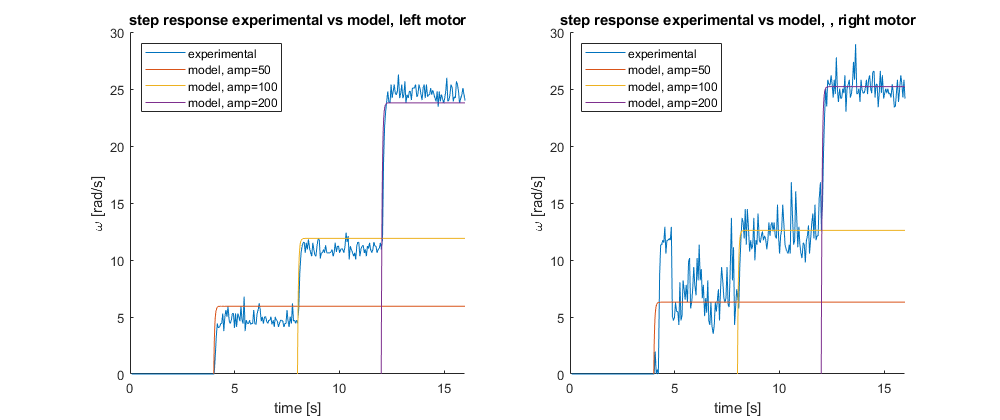
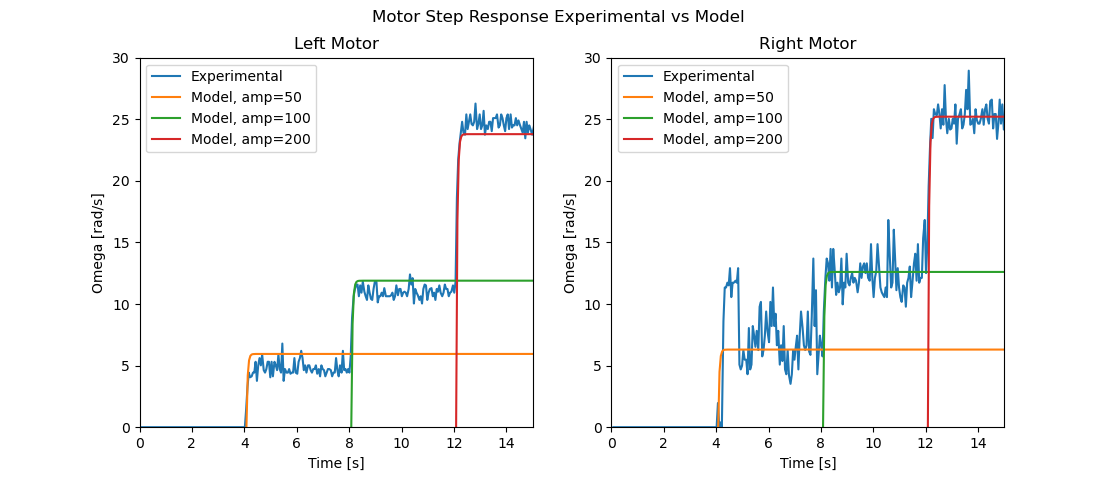
figure updates

diff --git a/HIVE/backtrack.py b/HIVE/backtrack.py
@@ -1,0 +1,196 @@
+import pyrealsense2.pyrealsense2 as rs
+import numpy as np
+import cv2
+import argparse
+import imutils
+import time
+import math
+from math import isnan
+import sys
+
+# add directories and import custom "libraries"
+sys.path.append('D:/all my files/documents/uvm/5_masters/hive/github_directory/HIVE/vision/')
+import vision_continuous as vision
+
+sys.path.append('D:/all my files/documents/uvm/5_masters/hive/github_directory/HIVE/motion/python/send_serial_motor_control/')
+import send_actuation_msg as messenger
+#
+sys.path.append('D:/all my files/documents/uvm/5_masters/hive/github_directory/HIVE/mapping/')
+from mapping import px2rad
+
+
+####################################################
+#               vehicle parameters                 #
+####################################################
+# vehicle measurements
+wheel_base_m = 0.158    # [m]
+tire_radius_m = 0.022   # [m]
+
+# set camera specs
+wp = 640
+theta_fov_depth = math.radians(81)
+cam_loc = [-25,105] # sideways,forward displacement of camera (right +,fwd +)
+
+print('*************************************')
+print('Vehicle and Controller Specifications')
+print('*************************************')
+print('')
+print('wheel base [m]:    ' + str(wheel_base_m))
+print('tire radius [m]:   ' + str(tire_radius_m))
+
+print('***************************')
+print('Backtrack.')
+print('25 MAR 20')
+print('***************************')
+
+'''
+cv2.namedWindow('RealSense', cv2.WINDOW_AUTOSIZE)
+'''
+# Configure depth and color streams
+pipeline = rs.pipeline()
+config = rs.config()
+config.enable_stream(rs.stream.depth, 640, 480, rs.format.z16, 30)
+config.enable_stream(rs.stream.color, 640, 480, rs.format.bgr8, 30)
+
+# Start streaming
+pipeline.start(config)
+
+print("Time Elapsed [s],"
+    "Dist [mm],Head [rad],"
+    "x [mm],y [mm],"
+    "s [m/s],omega [rad/s],"
+    "omega_l [rad/s],omega_r [rad/s]")
+
+head_rad = 0
+dist_mm = 0
+s = 0
+omega = 0
+omega_l = 0
+omega_r = 0
+
+try:
+    start = time.time()
+
+    time_now = start
+    head_rad = 1
+    x = 1
+    y = 1
+
+    time_old = 0
+    head_rad_old = 0
+    x_old = 0
+    y_old = 0
+
+    while True:
+        time_now = time.time()
+
+        # get images (depth and color) from camera
+        image_pair = vision.get_aligned_frame(pipeline)
+        depth_image = image_pair[1]
+        color_image = image_pair[0]
+
+        # detect markers in images
+        markers_list = vision.detect_aruco(image_pair,
+                                           visualize=False, camera_location=cam_loc)
+            # id = markers[0][0],   id,       [-]
+            # x = markers[0][1][0], y,        [px]
+            # y = markers[0][1][1], x,        [px]
+            # d = markers[0][2],    distance, [mm]
+            # h = markers[0][3]))   heading,  [rad]
+
+        if markers_list: # check to see if markers contains any elements (not empty)
+            # convert markers from list to array
+            markers = np.asarray(markers_list)
+
+            # if multiple markers detected (e.g. marker on back of leader and side of leader)
+            # then take the average and min position of them
+            markers_avg = np.mean(markers, axis=0)
+            markers_min = np.min(markers, axis=0)
+
+            # extract distance and heading detected in image
+            # taking MINIMUM distance to avoid lurching when additional markers are detected
+            # taking AVERAGE heading to help steer... may need to change this to min as well? needs testing
+            dist_mm = markers_min[3]    # distance to aruco [mm]
+            head_rad = markers_avg[4] # heading to aruco  [rad]
+
+            ############################
+            #       back-track         #
+            ############################
+            dt = time_now - time_old
+
+            x = dist_mm*np.sin(head_rad)
+            y = -dist_mm*np.cos(head_rad)
+
+            omega = -(head_rad-head_rad_old)/dt
+            s = np.sqrt((x-x_old)**2+(y-y_old)**2)/1000
+
+            omega_l = (s-omega*wheel_base_m/2)/tire_radius_m
+            omega_r = (s+omega*wheel_base_m/2)/tire_radius_m
+
+            time_old = time_now
+            head_rad_old = head_rad
+            x_old = x
+            y_old = y
+        '''
+        #######################################################################################
+        # put together view window #
+        #######################################################################################
+
+        [color_unaligned,_] = vision.get_curr_frame(pipeline)
+
+        # Apply colormap on depth image (image must be converted to 8-bit per pixel first)
+        #################
+        #  good alphas  #
+        # ------------- #
+        # 0.08 standard (all looks blue)
+        # 0.3  good depth of field
+        #################
+        scaled_depth=cv2.convertScaleAbs(depth_image, alpha=0.08)
+        depth_colormap = cv2.applyColorMap(scaled_depth, cv2.COLORMAP_JET)
+
+        ###########
+        # markers #
+        ###########
+        if markers_list:
+            for mark in markers:
+                for img in [color_image, depth_colormap]:
+                    cv2.circle(img, (int(mark[1]), int(mark[2])), 4, (0,0,255), -1)
+                    cv2.line(img, (int(mark[5]), int(mark[6])), (int(mark[7]), int(mark[8])), (0,255,0), 2)
+                    cv2.line(img, (int(mark[7]), int(mark[8])), (int(mark[9]), int(mark[10])), (0,255,0), 2)
+                    cv2.line(img, (int(mark[9]), int(mark[10])), (int(mark[11]), int(mark[12])), (0,255,0), 2)
+                    cv2.line(img, (int(mark[11]), int(mark[12])), (int(mark[5]), int(mark[6])), (0,255,0), 2)
+
+        # Stack images horizontally
+        images = np.hstack((color_unaligned,color_image, depth_colormap))
+
+        # Show images
+        cv2.imshow('RealSense', images)
+
+        k = cv2.waitKey(1) & 0xFF # escape key to stop
+        if k == 27:
+            break
+        '''
+
+        end = time.time()
+        elapsed = end-start
+        #######################################################################################
+        # print outputs #
+        #######################################################################################
+        print("{t:.5f},{d:6.1f},{h:8.4f},"
+            "{x:8.2f},{y:8.2f},"
+            "{s:7.4f},{o:7.3f}, "
+            "{o_l:7.3f}, {o_r:7.3f}".format(
+            t = elapsed,
+            d = dist_mm,
+            h = head_rad,#*180/3.1415,
+            x = x,
+            y = y,
+            s = s,
+            o = omega,
+            o_l = omega_l,
+            o_r = omega_r))
+
+finally:
+    # Stop streaming
+    pipeline.stop()
+    print("Stream stopped.")

diff --git a/results/system_identification/24-11-22_sys_id_plotting.py b/results/system_identification/24-11-22_sys_id_plotting.py
@@ -1,5 +1,6 @@
 import pandas as pd
 import matplotlib.pyplot as plt
+import numpy as np
 
 ###############
 # attenuation #
@@ -7,7 +8,7 @@ import matplotlib.pyplot as plt
 
 syd_id_df = pd.read_csv('24-09-20_sys_id_data.csv',header=4,sep=',')
 
-#   0      1        2      3 
+#   0      1        2      3
 # time  command  omegaL omegaR
 sys_id_array = syd_id_df.values
 time = sys_id_array[:,0]
@@ -23,7 +24,7 @@ plt.plot(time, atten_R, label='Attenuation right')
 
 plt.xlabel('Time [s]')
 plt.ylabel('Attenuation [s/rad]')
-plt.title('Control signal attenuation')
+plt.title('Control Signal Attenuation')
 plt.ylim([0,20])
 plt.xlim([5,15])
 plt.legend(loc='upper left')
@@ -32,9 +33,52 @@ plt.show()
 ############
 # response #
 ############
+from scipy import signal
+num = [2.896]
+den = [1, 24.35]
+system = signal.TransferFunction(num,den)
+t,y = signal.step(system,T=time)
 
-plt.plot(time, sys_id_array[:,2],label='Response, Left')
-plt.plot(time, sys_id_array[:,3],label='Response, Right')
-plt.plot(time, sys_id_array[:,1],label='Command value')
+y50=y*50
+y100=y*100
+y200=y*200
+
+plt.subplot(1,2,1)
+plt.plot(time, sys_id_array[:,2],label='Experimental')
+plt.plot(time+4,y50,label='Model, amp=50')
+plt.plot(time+8,y100,label='Model, amp=100')
+plt.plot(time+12,y200,label='Model, amp=200')
+# plt.plot(time,composite,label='Model')
+# plt.plot(t,y*50,label='Model')
+plt.xlabel("Time [s]")
+plt.ylabel("Omega [rad/s]")
+plt.title("Left Motor")
 plt.legend(loc='upper left')
+plt.xlim([0, 15])
+plt.ylim([0,30])
+
+####################################################################
+num = [3.143]
+den = [1, 24.94]
+system = signal.TransferFunction(num,den)
+t,y = signal.step(system,T=time)
+
+y50=y*50
+y100=y*100
+y200=y*200
+
+plt.subplot(1,2,2)
+plt.plot(time, sys_id_array[:,3],label='Experimental')
+plt.plot(time+4,y50,label='Model, amp=50')
+plt.plot(time+8,y100,label='Model, amp=100')
+plt.plot(time+12,y200,label='Model, amp=200')
+plt.xlabel("Time [s]")
+plt.ylabel("Omega [rad/s]")
+plt.title("Right Motor")
+plt.legend(loc='upper left')
+plt.xlim([0, 15])
+plt.ylim([0,30])
+
+# plt.plot(time, sys_id_array[:,1],label='Command value')
+plt.suptitle("Motor Step Response Experimental vs Model")
 plt.show()

diff --git a/results/aruco_detect_alpha/alpha_analysis.py b/results/aruco_detect_alpha/alpha_analysis.py
@@ -1,0 +1,21 @@
+import pandas as pd
+import matplotlib.pyplot as plt
+import numpy as np
+
+df = pd.read_csv('determine_alpha.csv',header=1,sep=',')
+
+
+plt.plot(df[' Angle [deg]'],df[' Size [px]'],'.')
+plt.xlabel('Angle [deg]')
+plt.ylabel('Marker Size [px]')
+plt.xlim([0,90])
+plt.title('30-50mm Marker Detection')
+plt.show()
+
+plt.plot(df[' Angle [deg]'],df[' Alpha [px/bit]'],'.')
+plt.xlabel('Angle [deg]')
+plt.ylabel('Gamma [px/bit]')
+plt.xlim([-1,46])
+plt.ylim([1.2,2.2])
+plt.title('30-50mm Marker Detection: Gamma Envelope')
+plt.show()
